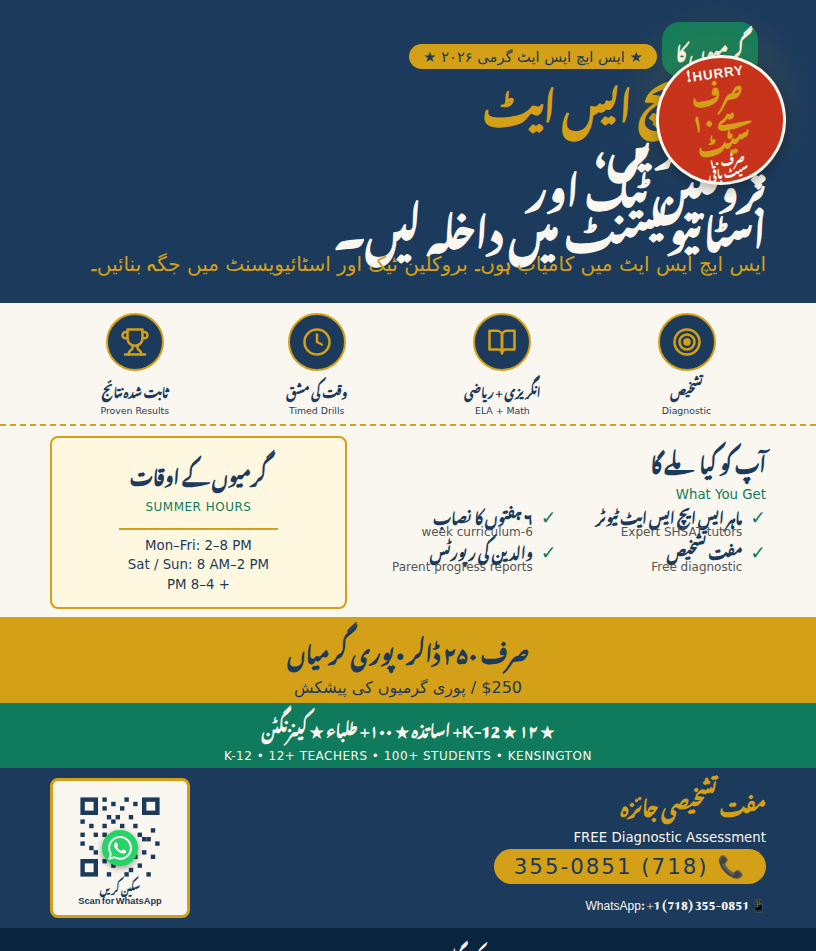
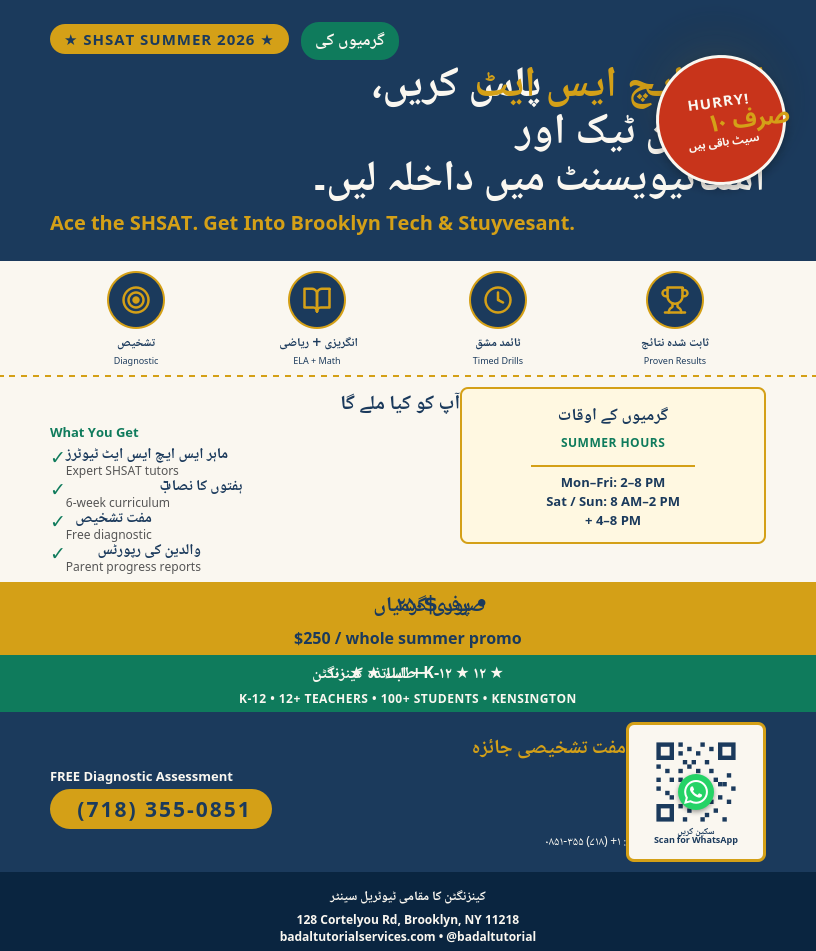
Fix Urdu SHSAT flyer: rewrite from BN base
Issues fixed:
- Body dir=rtl was flipping layout (QR on wrong side, hours on wrong side)
  → removed dir=rtl from <body>, only Urdu text elements have direction:rtl
- Font UrFont only had 2 faces (Regular/Bold) but 3 weights declared
  → use Noto Naskh Arabic (full weight family) for body, fallback chain
- Hero headline was empty (RTL cascade broke rendering)
  → LTR body, individual Urdu elements rtl
- Body-left had no content (dir=rtl + flex collapsing)
  → switched to Noto Naskh Arabic + LTR body
- Footer was cropped/truncated
  → fresh render at H=951, footer flush (0px void)

Verify: 2691 cream pixels in hero, 1521 dark pixels in body,
181 green check pixels, 3068 footer cream pixels.

diff --git a/flyers/ur/shsat-ur.html b/flyers/ur/shsat-ur.html
@@ -6,91 +6,91 @@
 @font-face { font-family: 'BodySans'; src: local('Noto Sans'), local('DejaVu Sans'); font-weight: 400; }
 @font-face { font-family: 'BodySans'; src: local('Noto Sans'), local('DejaVu Sans'); font-weight: 700; }
 @font-face { font-family: 'BodySans'; src: local('Noto Sans'), local('DejaVu Sans'); font-weight: 900; }
-@font-face { font-family: 'UrFont'; src: local('Noto Nastaliq Urdu'); font-weight: 400; }
-@font-face { font-family: 'UrFont'; src: local('Noto Nastaliq Urdu'); font-weight: 700; }
-@font-face { font-family: 'UrFont'; src: local('Noto Nastaliq Urdu'); font-weight: 900; }
+@font-face { font-family: 'UrFont'; src: local('Noto Naskh Arabic'), local('Noto Sans Arabic'), local('Noto Nastaliq Urdu'); font-weight: 400; }
+@font-face { font-family: 'UrFont'; src: local('Noto Naskh Arabic'), local('Noto Sans Arabic'), local('Noto Nastaliq Urdu'); font-weight: 700; }
+@font-face { font-family: 'UrFont'; src: local('Noto Naskh Arabic'), local('Noto Sans Arabic'), local('Noto Nastaliq Urdu'); font-weight: 900; }
 
   * { margin: 0; padding: 0; box-sizing: border-box; }
-  body { font-family: 'BodySans', 'Noto Nastaliq Urdu', 'UrFont', 'DejaVu Sans', sans-serif; background: #FAF7F0; }
+  body { font-family: 'BodySans', 'UrFont', 'Noto Naskh Arabic', 'Noto Sans Arabic', 'DejaVu Sans', sans-serif; background: #FAF7F0; }
 
   .flyer { width: 8.5in; min-height: 9.4in; background: #FAF7F0; position: relative; overflow: hidden; }
   .hero { background: #1B3A5C; color: #FAF7F0; padding: 22px 50px 24px; position: relative; overflow: hidden; }
   .hero::before { content: ''; position: absolute; top: 0; right: 0; width: 200px; height: 200px; background: radial-gradient(circle, rgba(212,160,23,0.18) 0%, transparent 70%); }
 
-  .urgent-badge { position: absolute; top: 55px; right: 30px; width: 130px; height: 130px; background: #C8341B; color: #FAF7F0; border-radius: 50%; display: flex; flex-direction: column; align-items: center; justify-content: center; text-align: center; font-family: 'UrFont', 'Noto Nastaliq Urdu', sans-serif; font-weight: 900; line-height: 1.1; box-shadow: 0 4px 12px rgba(0,0,0,0.3); border: 3px solid #FAF7F0; z-index: 10; transform: rotate(-8deg); }
-  .urgent-badge .urgent-top { font-size: 10pt; letter-spacing: 1px; }
-  .urgent-badge .urgent-mid { font-size: 17pt; color: #D4A017; margin: 1px 0; }
-  .urgent-badge .urgent-bot { font-size: 8pt; font-weight: 700; }
+  .urgent-badge { position: absolute; top: 55px; right: 30px; width: 130px; height: 130px; background: #C8341B; color: #FAF7F0; border-radius: 50%; display: flex; flex-direction: column; align-items: center; justify-content: center; text-align: center; font-family: 'BodySans', 'UrFont', sans-serif; font-weight: 900; line-height: 1.1; box-shadow: 0 4px 12px rgba(0,0,0,0.3); border: 3px solid #FAF7F0; z-index: 10; transform: rotate(-8deg); }
+  .urgent-badge .urgent-top { font-size: 11pt; letter-spacing: 1px; }
+  .urgent-badge .urgent-mid { font-size: 18pt; color: #D4A017; margin: 1px 0; line-height: 1.05; direction: rtl; }
+  .urgent-badge .urgent-bot { font-size: 8pt; font-weight: 700; direction: rtl; }
 
   .badge { display: inline-block; background: #D4A017; color: #1B3A5C; padding: 4px 14px; border-radius: 18px; font-size: 11pt; font-weight: 700; letter-spacing: 1px; margin-bottom: 10px; font-family: 'BodySans', sans-serif; }
-  .badge-ur { display: inline-block; background: #0F7B5C; color: #FAF7F0; padding: 4px 14px; border-radius: 18px; font-size: 14pt; font-weight: 700; margin-right: 8px; font-family: 'UrFont', 'Noto Nastaliq Urdu', sans-serif; }
-  .headline-ur { font-family: "UrFont", "Noto Nastaliq Urdu", sans-serif; font-size: 30pt; font-weight: 700; line-height: 1.05; color: #FAF7F0; margin-bottom: 6px; direction: rtl; text-align: right; }
+  .badge-ur { display: inline-block; background: #0F7B5C; color: #FAF7F0; padding: 4px 14px; border-radius: 18px; font-size: 13pt; font-weight: 700; margin-left: 8px; font-family: 'UrFont', 'Noto Naskh Arabic', sans-serif; direction: rtl; }
+  .headline-ur { font-family: 'UrFont', 'Noto Naskh Arabic', sans-serif; font-size: 32pt; font-weight: 700; line-height: 1.1; color: #FAF7F0; margin-bottom: 6px; direction: rtl; text-align: right; }
   .headline-ur .accent { color: #D4A017; }
-  .headline-en { font-family: 'BodySans', sans-serif; font-size: 15pt; font-weight: 900; line-height: 1.1; color: #D4A017; margin-bottom: 4px; direction: ltr; text-align: right; }
+  .headline-en { font-family: 'BodySans', sans-serif; font-size: 15pt; font-weight: 900; line-height: 1.1; color: #D4A017; margin-bottom: 4px; }
 
   .illustration { background: #FAF7F0; padding: 10px 50px 8px; display: flex; justify-content: space-around; align-items: center; gap: 16px; border-bottom: 2px dashed #D4A017; }
   .illust-item { text-align: center; }
   .illust-circle { width: 58px; height: 58px; border-radius: 50%; background: #1B3A5C; display: flex; align-items: center; justify-content: center; margin: 0 auto 4px; border: 2px solid #D4A017; }
   .illust-circle svg { width: 30px; height: 30px; }
-  .illust-label { font-family: 'UrFont', 'Noto Nastaliq Urdu', sans-serif; font-size: 9pt; font-weight: 700; color: #1B3A5C; }
+  .illust-label { font-family: 'UrFont', 'Noto Naskh Arabic', sans-serif; font-size: 9pt; font-weight: 700; color: #1B3A5C; direction: rtl; }
   .illust-label-en { font-family: 'BodySans', sans-serif; font-size: 7pt; color: #1B3A5C; }
 
   .body-ur { padding: 10px 50px 8px; background: #FAF7F0; display: flex; gap: 22px; align-items: flex-start; }
   .body-left { flex: 1.2; }
   .hours-card { flex: 0.8; background: #FFF8E1; border: 2px solid #D4A017; border-radius: 8px; padding: 12px 14px; display: flex; flex-direction: column; justify-content: center; align-items: center; text-align: center; }
-  .hours-title { font-family: 'UrFont', 'Noto Nastaliq Urdu', sans-serif; font-size: 14pt; font-weight: 700; color: #1B3A5C; margin-bottom: 3px; }
+  .hours-title { font-family: 'UrFont', 'Noto Naskh Arabic', sans-serif; font-size: 13pt; font-weight: 700; color: #1B3A5C; margin-bottom: 3px; direction: rtl; }
   .hours-title-en { font-family: 'BodySans', sans-serif; font-size: 9pt; font-weight: 700; color: #0F7B5C; margin-bottom: 8px; letter-spacing: 0.5px; }
   .hours-row { font-family: 'BodySans', sans-serif; font-size: 10pt; color: #1B3A5C; line-height: 1.5; font-weight: 700; }
   .hours-divider { width: 60%; height: 1.5px; background: #D4A017; margin: 6px auto; }
-  .body-title { font-family: 'UrFont', 'Noto Nastaliq Urdu', sans-serif; font-size: 15pt; font-weight: 700; color: #1B3A5C; margin-bottom: 1px; direction: rtl; text-align: right; }
-  .body-title-en { font-family: 'BodySans', sans-serif; font-size: 10pt; font-weight: 700; color: #0F7B5C; margin-bottom: 5px; direction: ltr; text-align: right; }
+  .body-title { font-family: 'UrFont', 'Noto Naskh Arabic', sans-serif; font-size: 15pt; font-weight: 700; color: #1B3A5C; margin-bottom: 1px; direction: rtl; text-align: right; }
+  .body-title-en { font-family: 'BodySans', sans-serif; font-size: 10pt; font-weight: 700; color: #0F7B5C; margin-bottom: 5px; }
   .body-grid { display: grid; grid-template-columns: 1fr 1fr; gap: 3px 22px; }
   .body-row { display: flex; align-items: flex-start; gap: 8px; }
   .check { color: #0F7B5C; font-size: 14pt; font-weight: 900; flex-shrink: 0; line-height: 1.2; }
-  .body-text-ur { font-family: 'UrFont', 'Noto Nastaliq Urdu', sans-serif; font-size: 11pt; font-weight: 700; color: #1B3A5C; line-height: 1.2; }
+  .body-text-ur { font-family: 'UrFont', 'Noto Naskh Arabic', sans-serif; font-size: 11pt; font-weight: 700; color: #1B3A5C; line-height: 1.2; direction: rtl; text-align: right; }
   .body-text-en { font-family: 'BodySans', sans-serif; font-size: 9pt; color: #555; line-height: 1.2; margin-top: 0; }
 
   .price-pill { background: #D4A017; color: #1B3A5C; padding: 6px 50px; text-align: center; }
-  .price-ur { font-family: 'UrFont', 'Noto Nastaliq Urdu', sans-serif; font-size: 16pt; font-weight: 700; margin-bottom: 1px; }
+  .price-ur { font-family: 'UrFont', 'Noto Naskh Arabic', sans-serif; font-size: 16pt; font-weight: 700; margin-bottom: 1px; direction: rtl; }
   .price-en { font-family: 'BodySans', sans-serif; font-size: 12pt; font-weight: 700; }
 
   .trust { background: #0F7B5C; color: #FAF7F0; padding: 5px 50px; text-align: center; }
-  .trust-ur { font-family: 'UrFont', 'Noto Nastaliq Urdu', sans-serif; font-size: 12pt; font-weight: 700; margin-bottom: 1px; }
+  .trust-ur { font-family: 'UrFont', 'Noto Naskh Arabic', sans-serif; font-size: 12pt; font-weight: 700; margin-bottom: 1px; direction: rtl; }
   .trust-en { font-family: 'BodySans', sans-serif; font-size: 9pt; font-weight: 700; letter-spacing: 0.5px; }
 
   .cta { background: #1B3A5C; color: #FAF7F0; padding: 10px 50px; display: flex; align-items: center; gap: 20px; }
   .cta-left { flex: 1; }
-  .cta-headline { font-family: 'UrFont', 'Noto Nastaliq Urdu', sans-serif; font-size: 15pt; font-weight: 700; color: #D4A017; margin-bottom: 1px; direction: rtl; text-align: right; }
+  .cta-headline { font-family: 'UrFont', 'Noto Naskh Arabic', sans-serif; font-size: 15pt; font-weight: 700; color: #D4A017; margin-bottom: 1px; direction: rtl; text-align: right; }
   .cta-sub { font-family: 'BodySans', sans-serif; font-size: 10pt; font-weight: 700; color: #FAF7F0; margin-bottom: 4px; }
   .phone-block { display: inline-block; background: #D4A017; color: #1B3A5C; padding: 5px 20px; border-radius: 32px; font-family: 'BodySans', sans-serif; font-size: 16pt; font-weight: 900; letter-spacing: 2px; margin-bottom: 3px; }
-  .wa-line { font-family: 'UrFont', 'Noto Nastaliq Urdu', sans-serif; font-size: 9pt; color: #FAF7F0; direction: rtl; text-align: right; }
+  .wa-line { font-family: 'UrFont', 'Noto Naskh Arabic', sans-serif; font-size: 9pt; color: #FAF7F0; direction: rtl; text-align: right; }
   .qr-box { position: relative; width: 140px; height: 140px; background: #FAF7F0; border: 3px solid #D4A017; border-radius: 8px; display: flex; flex-direction: column; align-items: center; justify-content: center; text-align: center; padding: 3px; flex-shrink: 0; }
   .qr-box svg { width: 88px; height: 88px; }
   .wa-logo { position: absolute; top: 50%; left: 50%; transform: translate(-50%, -50%); width: 36px; height: 36px; background: #25D366; border-radius: 50%; display: flex; align-items: center; justify-content: center; box-shadow: 0 2px 6px rgba(0,0,0,0.4); z-index: 5; }
   .wa-logo svg { width: 24px; height: 24px; fill: #FFFFFF; }
 
-  .qr-label { font-family: 'UrFont', 'Noto Nastaliq Urdu', sans-serif; font-size: 7pt; font-weight: 700; color: #1B3A5C; margin-top: 2px; line-height: 1.1; }
+  .qr-label { font-family: 'UrFont', 'Noto Naskh Arabic', sans-serif; font-size: 7pt; font-weight: 700; color: #1B3A5C; margin-top: 2px; line-height: 1.1; direction: rtl; }
 
   .footer { background: #0a2540; color: #FAF7F0; padding: 14px 50px 12px; text-align: center; }
-  .footer-ur { font-family: 'UrFont', 'Noto Nastaliq Urdu', sans-serif; font-size: 10pt; font-weight: 700; margin-bottom: 2px; direction: rtl; }
+  .footer-ur { font-family: 'UrFont', 'Noto Naskh Arabic', sans-serif; font-size: 10pt; font-weight: 700; margin-bottom: 2px; direction: rtl; }
   .footer-en { font-family: 'BodySans', sans-serif; font-size: 9pt; font-weight: 700; }
 </style>
 </head>
-<body dir="rtl">
+<body>
 
 <div class="flyer">
   <div class="hero">
     <div class="urgent-badge">
       <div class="urgent-top">HURRY!</div>
-      <div class="urgent-mid">صرف<br>ہے ۱۰<br>سیٹ</div>
-      <div class="urgent-bot">صرف ۱۰<br>سیٹ باقی</div>
+      <div class="urgent-mid">صرف ۱۰</div>
+      <div class="urgent-bot">سیٹ باقی ہیں</div>
     </div>
     <div>
-      <span class="badge-ur">گرمیوں کا</span>
-      <span class="badge">★ ایس ایچ ایس ایٹ گرمی ۲۰۲۶ ★</span>
+      <span class="badge">★ SHSAT SUMMER 2026 ★</span>
+      <span class="badge-ur">گرمیوں کی</span>
     </div>
-    <div class="headline-ur"><span class="accent">ایس ایچ ایس ایٹ</span><br>پاس کریں،<br>بروکلین ٹیک اور<br>اسٹائیویسنٹ میں داخلہ لیں۔</div>
-    <div class="headline-en">ایس ایچ ایس ایٹ میں کامیاب ہوں۔ بروکلین ٹیک اور اسٹائیویسنٹ میں جگہ بنائیں۔</div>
+    <div class="headline-ur"><span class="accent">ایس ایچ ایس ایٹ</span> پاس کریں،<br>بروکلین ٹیک اور<br>اسٹائیویسنٹ میں داخلہ لیں۔</div>
+    <div class="headline-en">Ace the SHSAT. Get Into Brooklyn Tech &amp; Stuyvesant.</div>
   </div>
 
   <div class="illustration">
@@ -122,7 +122,7 @@
           <polyline points="12 6 12 12 16 14"/>
         </svg>
       </div>
-      <div class="illust-label">وقت کی مشق</div>
+      <div class="illust-label">ٹائمد مشق</div>
       <div class="illust-label-en">Timed Drills</div>
     </div>
     <div class="illust-item">
@@ -144,12 +144,12 @@
   <div class="body-ur">
     <div class="body-left">
       <div class="body-title">آپ کو کیا ملے گا</div>
-    <div class="body-title-en">What You Get</div>
-    <div class="body-grid">
+      <div class="body-title-en">What You Get</div>
+      <div class="body-grid">
       <div class="body-row">
         <span class="check">✓</span>
         <div>
-          <div class="body-text-ur">ماہر ایس ایچ ایس ایٹ ٹیوٹر</div>
+          <div class="body-text-ur">ماہر ایس ایچ ایس ایٹ ٹیوٹرز</div>
           <div class="body-text-en">Expert SHSAT tutors</div>
         </div>
       </div>
@@ -187,12 +187,12 @@
   </div>
 
   <div class="price-pill">
-    <div class="price-ur">صرف ۲۵۰ ڈالر • پوری گرمیاں</div>
-    <div class="price-en">$250 / پوری گرمیوں کی پیشکش</div>
+    <div class="price-ur">صرف $۲۵۰ • پوری گرمیاں</div>
+    <div class="price-en">$250 / whole summer promo</div>
   </div>
 
   <div class="trust">
-    <div class="trust-ur">★ K-12 ★ ۱۲+ اساتذہ ★ ۱۰۰+ طلباء ★ کینزنگٹن</div>
+    <div class="trust-ur">★ K-۱۲ ★ ۱۲+ اساتذہ ★ ۱۰۰+ طلباء ★ کینزنگٹن</div>
     <div class="trust-en">K-12 • 12+ TEACHERS • 100+ STUDENTS • KENSINGTON</div>
   </div>
 
@@ -201,7 +201,7 @@
       <div class="cta-headline">مفت تشخیصی جائزہ</div>
       <div class="cta-sub">FREE Diagnostic Assessment</div>
       <div class="phone-block">📞 (718) 355-0851</div>
-      <div class="wa-line">📱 WhatsApp: +1 (718) 355-0851</div>
+      <div class="wa-line">واٹس ایپ: ۱+ (۷۱۸) ۳۵۵-۰۸۵۱</div>
     </div>
     <div class="qr-box">
       <svg viewBox="0 0 100 100" fill="#1B3A5C">
@@ -258,13 +258,14 @@
       <div class="wa-logo">
         <svg viewBox="0 0 24 24"><path d="M17.472 14.382c-.297-.149-1.758-.867-2.03-.967-.273-.099-.471-.148-.67.15-.197.297-.767.966-.94 1.164-.173.199-.347.223-.644.075-.297-.15-1.255-.463-2.39-1.475-.883-.788-1.48-1.761-1.653-2.059-.173-.297-.018-.458.13-.606.134-.133.298-.347.446-.52.149-.174.198-.298.298-.497.099-.198.05-.371-.025-.52-.075-.149-.669-1.612-.916-2.207-.242-.579-.487-.5-.669-.51-.173-.008-.371-.01-.57-.01-.198 0-.52.074-.792.372-.272.297-1.04 1.016-1.04 2.479 0 1.462 1.065 2.875 1.213 3.074.149.198 2.096 3.2 5.077 4.487.709.306 1.262.489 1.694.625.712.227 1.36.195 1.871.118.571-.085 1.758-.719 2.006-1.413.248-.694.248-1.289.173-1.413-.074-.124-.272-.198-.57-.347m-5.421 7.403h-.004a9.87 9.87 0 01-5.031-1.378l-.361-.214-3.741.982.998-3.648-.235-.374a9.86 9.86 0 01-1.51-5.26c.001-5.45 4.436-9.884 9.888-9.884 2.64 0 5.122 1.03 6.988 2.898a9.825 9.825 0 012.893 6.994c-.003 5.45-4.437 9.884-9.885 9.884m8.413-18.297A11.815 11.815 0 0012.05 0C5.495 0 .16 5.335.157 11.892c0 2.096.547 4.142 1.588 5.945L.057 24l6.305-1.654a11.882 11.882 0 005.683 1.448h.005c6.554 0 11.89-5.335 11.893-11.893a11.821 11.821 0 00-3.48-8.413z"/></svg>
       </div>
-<div class="qr-label">سکین کریں<br>Scan for WhatsApp</div>
+      <div class="qr-label">سکین کریں<br>Scan for WhatsApp</div>
     </div>
   </div>
 
   <div class="footer">
     <div class="footer-ur">کینزنگٹن کا مقامی ٹیوٹریل سینٹر</div>
-    <div class="footer-en">128 Cortelyou Rd, Brooklyn, NY 11218</div><div class="footer-en">badaltutorialservices.com • @badaltutorial</div>
+    <div class="footer-en">128 Cortelyou Rd, Brooklyn, NY 11218</div>
+    <div class="footer-en">badaltutorialservices.com • @badaltutorial</div>
   </div>
 </div>
 
